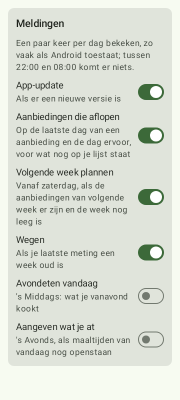
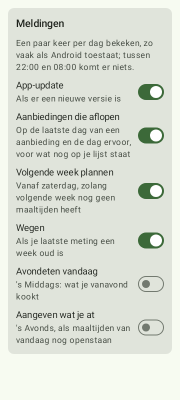
Notifications: a run inside every window, and "Plan next week" on Saturday whatever the offers (#251) (#254)
The periodic run's times are Android's and can miss the two hours of "Mark what you ate", so every run also schedules a one-off run just after the next window opens. "Plan next week" was tied to next week's offers, which only Jumbo lists early; the owner chose Saturday regardless of offers.

diff --git a/composeApp/src/commonTest/kotlin/dev/tobins/mealplanner/app/NotificationsTest.kt b/composeApp/src/commonTest/kotlin/dev/tobins/mealplanner/app/NotificationsTest.kt
@@ -11,6 +11,9 @@ import kotlin.test.assertEquals
 import kotlin.test.assertFalse
 import kotlin.test.assertTrue
 import kotlin.time.Clock
+import kotlin.time.Duration.Companion.days
+import kotlin.time.Duration.Companion.hours
+import kotlin.time.Duration.Companion.minutes
 import kotlin.time.ExperimentalTime
 import kotlin.time.Instant
 
@@ -150,7 +153,7 @@ class NotificationsTest {
         assertEquals("1 offer for your list ends tomorrow", notice(NotificationKind.OFFERS_ENDING, tomorrow).title)
         val both = all.copy(offersEnding = listOf(EndingOffer("Quark", "2026-11-21"), EndingOffer("Feta", "2026-11-22")))
         assertEquals("2 offers for your list end today or tomorrow", notice(NotificationKind.OFFERS_ENDING, both).title)
-        assertEquals("Next week's offers are in" to "Plan the week.", notice(NotificationKind.PLAN_NEXT_WEEK).let { it.title to it.text })
+        assertEquals("Next week has no plan yet" to "Plan the week.", notice(NotificationKind.PLAN_NEXT_WEEK).let { it.title to it.text })
         assertEquals("Time for a weigh-in" to "The last one was 9 days ago", notice(NotificationKind.WEIGH_IN).let { it.title to it.text })
         assertEquals("Tonight: Chicken tikka" to "2.25 servings to cook", notice(NotificationKind.DINNER_TODAY).let { it.title to it.text })
         assertEquals("2 meals of today are not marked yet", notice(NotificationKind.MEALS_TO_MARK).title)
@@ -160,6 +163,7 @@ class NotificationsTest {
         assertEquals("1 aanbieding voor je lijst eindigt morgen", notice(NotificationKind.OFFERS_ENDING, tomorrow, nl).title)
         assertEquals("Vanavond: Chicken tikka" to "2,25 porties om te koken", notice(NotificationKind.DINNER_TODAY, strings = nl).let { it.title to it.text })
         assertEquals("Meal planner 0.1.9 is beschikbaar", notice(NotificationKind.UPDATE, strings = nl).title)
+        assertEquals("Volgende week heeft nog geen plan" to "Plan de week.", notice(NotificationKind.PLAN_NEXT_WEEK, strings = nl).let { it.title to it.text })
     }
 
     @Test
@@ -172,5 +176,37 @@ class NotificationsTest {
         // The recipe from that meal, with its servings to cook and the way to mark it eaten.
         val meal = MealToCook(12, 1.5, 2.25, skipped = false, MealPlace("2026-11-16", 5, MealSlot.DINNER), planned = true)
         assertEquals(Opening(Route.Recipe(12), meal), notice(NotificationKind.DINNER_TODAY).opening)
+    }
+
+    @Test
+    fun everyWindowGetsARunWhateverThePhaseOfThePeriodicOne() {
+        assertEquals(listOf(8, 15, 20), NotificationWindows.openingHours)
+        // Starting at any minute of a day, the chain of runs (each asking for the next) has one just after every opening, on the days after too.
+        val start = Instant.parse("2026-11-21T00:00:00Z")
+        for (minute in 0 until 24 * 60) {
+            var now = start + minute.minutes
+            val runs = mutableListOf<Instant>()
+            while (now < start + 3.days) {
+                now = NotificationWindows.nextRun(now, TimeZone.UTC).second
+                runs += now
+            }
+            for (day in 1..2) {
+                for (hour in NotificationWindows.openingHours) {
+                    val open = Instant.parse("2026-11-2${1 + day}T${hour.toString().padStart(2, '0')}:00:00Z")
+                    assertTrue(runs.any { it >= open && it < open + 1.hours }, "a run just after $open when starting at minute $minute")
+                }
+            }
+        }
+    }
+
+    @Test
+    fun aRunJustAfterAWindowOpensIsInsideItsWindow() {
+        for (hour in NotificationWindows.openingHours) {
+            val run = NotificationWindows.nextRun(Instant.parse("2026-11-21T${hour.toString().padStart(2, '0')}:00:00Z") - 1.minutes, TimeZone.UTC)
+            assertEquals(hour, run.first)
+            val planner = at(run.second.toString().substring(11, 16))
+            NotificationKind.entries.filter { it.fromHour == hour }.forEach { storage.saveNotificationOn(it, true) }
+            assertTrue(NotificationKind.entries.filter { it.fromHour == hour }.all(planner::wanted), "the window of $hour is open at its run")
+        }
     }
 }

diff --git a/androidApp/src/main/kotlin/dev/tobins/mealplanner/android/Notifications.kt b/androidApp/src/main/kotlin/dev/tobins/mealplanner/android/Notifications.kt
@@ -9,7 +9,9 @@ import android.content.Intent
 import androidx.work.Constraints
 import androidx.work.CoroutineWorker
 import androidx.work.ExistingPeriodicWorkPolicy
+import androidx.work.ExistingWorkPolicy
 import androidx.work.NetworkType
+import androidx.work.OneTimeWorkRequestBuilder
 import androidx.work.PeriodicWorkRequestBuilder
 import androidx.work.WorkManager
 import androidx.work.WorkerParameters
@@ -17,6 +19,7 @@ import dev.tobins.mealplanner.app.AppUpdates
 import dev.tobins.mealplanner.app.DueNotification
 import dev.tobins.mealplanner.app.NotificationKind
 import dev.tobins.mealplanner.app.NotificationPlanner
+import dev.tobins.mealplanner.app.NotificationWindows
 import dev.tobins.mealplanner.app.ServerSettings
 import dev.tobins.mealplanner.app.Strings
 import dev.tobins.mealplanner.app.appLanguage
@@ -30,7 +33,9 @@ import kotlinx.coroutines.withContext
 import java.util.concurrent.TimeUnit
 
 /**
- * The one background check (issue 225), every four hours on any network, as often as Android allows: the
+ * The one background check (issue 225), every four hours on any network, as often as Android allows, and
+ * once just after each window opens ([NotificationWindows]), since the periodic run's times are Android's
+ * and may never fall inside a window: the
  * latest release, as the daily update check did before (not in a debug build, which a release cannot
  * replace), and, while logged in, what the server says is due. [NotificationPlanner] decides what to post;
  * this only asks and posts. Without the system's permission it asks nothing; a failure tells nothing, shows
@@ -39,6 +44,7 @@ import java.util.concurrent.TimeUnit
 class NotificationWorker(context: Context, params: WorkerParameters) : CoroutineWorker(context, params) {
     override suspend fun doWork(): Result {
         val app = applicationContext
+        scheduleNextWindowRun(app)
         if (!notificationsAllowed(app)) return Result.success()
         val storage = settingsStorage(app)
         val planner = NotificationPlanner(storage)
@@ -84,8 +90,30 @@ class NotificationWorker(context: Context, params: WorkerParameters) : Coroutine
         /** The daily update check's schedule, which this one replaces. */
         private const val UPDATE_CHECK_WORK_NAME = "update-check"
 
-        /** Schedules the check every four hours, which reaches the afternoon's and evening's windows; keeps an existing schedule. */
+        /** The unique work of the run for the window opening at [hour]: one name per window, so a run never replaces itself. */
+        private fun windowWorkName(hour: Int) = "$WORK_NAME-window-$hour"
+
+        /**
+         * Enqueues the one-off run just after the next window opens, as [NotificationWindows] says, replacing a
+         * waiting one of that window. Each run does this first, so the chain goes on; the periodic check and the
+         * app's start restart it should it ever break.
+         */
+        private fun scheduleNextWindowRun(context: Context) {
+            val (hour, wait) = NotificationWindows.untilNextRun()
+            val request = OneTimeWorkRequestBuilder<NotificationWorker>()
+                .setInitialDelay(wait.inWholeMilliseconds, TimeUnit.MILLISECONDS)
+                .setConstraints(Constraints.Builder().setRequiredNetworkType(NetworkType.CONNECTED).build())
+                .build()
+            WorkManager.getInstance(context).enqueueUniqueWork(windowWorkName(hour), ExistingWorkPolicy.REPLACE, request)
+        }
+
+        /**
+         * Schedules the check every four hours and the run after the next window opening; keeps an existing
+         * periodic schedule. The window runs are what make sure every window, the afternoon's and the evening's
+         * too, is reached whatever the phase of the periodic check.
+         */
         fun schedule(context: Context) {
+            scheduleNextWindowRun(context)
             val work = WorkManager.getInstance(context)
             work.cancelUniqueWork(UPDATE_CHECK_WORK_NAME)
             val request = PeriodicWorkRequestBuilder<NotificationWorker>(4, TimeUnit.HOURS)

diff --git a/server/src/test/kotlin/dev/tobins/mealplanner/server/NotificationsTest.kt b/server/src/test/kotlin/dev/tobins/mealplanner/server/NotificationsTest.kt
@@ -189,8 +189,8 @@ class NotificationsTest {
     // --- Plan next week
 
     @Test
-    fun nextWeekIsDueFromSaturdayWhileItHasNoMealsAndItsOffersAreIn() = testApplication {
-        start(chickenOffer, Offer(Store.JUMBO, "Jumbo Rijst 1 kg", "40% korting", validFrom = nextWeek, validUntil = "2026-11-29"))
+    fun nextWeekIsDueFromSaturdayWhileItHasNoMeals() = testApplication {
+        start(chickenOffer)
         val alice = clientFor("t").ready()
         val bob = clientFor("bob").ready()
         bob.get("/api/me")
@@ -204,38 +204,18 @@ class NotificationsTest {
         alice.plan("t", day = 0, weekStart = nextWeek)
         assertNull(facts("2026-11-21").planNextWeek)
         assertEquals(nextWeek, facts("2026-11-21", "bob").planNextWeek)
+    }
 
-        // Next week's offers are at a store Bob doesn't shop at.
+    @Test
+    fun nextWeekIsDueWithoutOffersAndForEveryStore() = testApplication {
+        // No offer of next week anywhere (AH and Lidl list theirs only once the week has started), and an account at AH alone.
+        start(Offer(Store.AH, "AH Broccoli", "1+1 gratis", validFrom = week, validUntil = "2026-11-22"))
+        val bob = clientFor("bob").ready()
         bob.put("/api/shops") { setBody(ShopsSetting(listOf(Store.AH))) }
-        assertNull(facts("2026-11-21", "bob").planNextWeek)
-    }
+        assertEquals(nextWeek, facts("2026-11-21", "bob").planNextWeek)
 
-    @Test
-    fun nextWeekIsNotDueBeforeItsOffersAreIn() = testApplication {
-        start(chickenOffer)
-        clientFor("t").ready()
-        assertNull(facts("2026-11-21").planNextWeek)
-    }
-
-    @Test
-    fun offersRunningOnIntoNextWeekAreNotNextWeeksOffers() = testApplication {
-        start(
-            // Jumbo's week of this Wednesday to next Tuesday, and an offer Jumbo dates over most of the year.
-            Offer(Store.JUMBO, "Jumbo Rijst 1 kg", "40% korting", validFrom = "2026-11-18", validUntil = "2026-11-24"),
-            Offer(Store.JUMBO, "Jumbo Oosterse maaltijden", "2 voor 5,50", validFrom = "2026-01-07", validUntil = "2026-12-08"),
-            // AH's week, ending on Sunday.
-            Offer(Store.AH, "AH Broccoli", "1+1 gratis", validFrom = week, validUntil = "2026-11-22"),
-        )
-        clientFor("t").ready()
-        assertNull(facts("2026-11-21").planNextWeek, "Saturday, with only this week's offers and a long-dated one")
-    }
-
-    @Test
-    fun anOfferStartingMidNextWeekBringsItsOffersIn() = testApplication {
-        // Jumbo lists its week from Wednesday 25 November before it starts.
-        start(chickenOffer, Offer(Store.JUMBO, "Jumbo Rijst 1 kg", "40% korting", validFrom = "2026-11-25", validUntil = "2026-12-01"))
-        clientFor("t").ready()
-        assertEquals(nextWeek, facts("2026-11-22").planNextWeek)
+        clientFor("t").ready().put("/api/shops") { setBody(ShopsSetting(listOf(Store.LIDL))) }
+        assertEquals(nextWeek, facts("2026-11-21").planNextWeek)
     }
 
     // --- Weigh-in

diff --git a/composeApp/src/commonMain/kotlin/dev/tobins/mealplanner/app/Notifications.kt b/composeApp/src/commonMain/kotlin/dev/tobins/mealplanner/app/Notifications.kt
@@ -4,11 +4,19 @@ import dev.tobins.mealplanner.api.MealSlot
 import dev.tobins.mealplanner.api.NotificationFacts
 import io.ktor.client.engine.HttpClientEngine
 import kotlinx.coroutines.flow.StateFlow
+import kotlinx.datetime.DateTimeUnit
+import kotlinx.datetime.LocalDateTime
+import kotlinx.datetime.LocalTime
 import kotlinx.datetime.TimeZone
+import kotlinx.datetime.plus
+import kotlinx.datetime.toInstant
 import kotlinx.datetime.toLocalDateTime
 import kotlin.coroutines.cancellation.CancellationException
 import kotlin.time.Clock
+import kotlin.time.Duration
+import kotlin.time.Duration.Companion.minutes
 import kotlin.time.ExperimentalTime
+import kotlin.time.Instant
 
 /*
  * The Android app's notifications (issue 225). The server says what is due (`GET /api/notifications`);
@@ -37,6 +45,38 @@ enum class NotificationKind(val key: String, val channel: String, val defaultOn:
 
         /** The kinds the server's facts are about: all but the update, which GitHub tells. */
         val fromServer = entries - UPDATE
+    }
+}
+
+/**
+ * When the background check must run so that every kind's window gets a run, whatever the phase of the periodic
+ * check (which Android runs about every four hours, at times of its own choosing and so possibly never inside
+ * the two hours of "Mark what you ate"). One extra run is due [MARGIN] after each hour a window opens; each
+ * run asks for the next one, so the chain goes on while the app is used now and then and the periodic check
+ * runs.
+ */
+@OptIn(ExperimentalTime::class)
+object NotificationWindows {
+    /** A run waits this long after the hour so that it is surely inside the window, and not at its very edge. */
+    val MARGIN: Duration = 5.minutes
+
+    /** The hours at which a window opens, in the order of the day. */
+    val openingHours: List<Int> = NotificationKind.entries.map { it.fromHour }.distinct().sorted()
+
+    /** The hour of the window the next run is for, and how long from now on the device's clock until it is due. */
+    fun untilNextRun(clock: Clock = Clock.System, zone: TimeZone = TimeZone.currentSystemDefault()): Pair<Int, Duration> {
+        val now = clock.now()
+        val (hour, due) = nextRun(now, zone)
+        return hour to due - now
+    }
+
+    /** The run after [now]: the hour of the window it is for, and the instant it is due, on the device's [zone]. */
+    fun nextRun(now: Instant, zone: TimeZone): Pair<Int, Instant> {
+        val today = now.toLocalDateTime(zone).date
+        return (0..1).flatMap { days ->
+            val day = today.plus(days, DateTimeUnit.DAY)
+            openingHours.map { hour -> hour to LocalDateTime(day, LocalTime(hour, 0)).toInstant(zone) + MARGIN }
+        }.first { it.second > now }
     }
 }
 

diff --git a/server/src/main/kotlin/dev/tobins/mealplanner/server/DueNotifications.kt b/server/src/main/kotlin/dev/tobins/mealplanner/server/DueNotifications.kt
@@ -26,8 +26,6 @@ class DueNotifications(
     private val profiles: ProfileRepository,
     /** The stores the account shops at: an offer elsewhere is no reason to hurry. */
     private val shops: () -> Set<Store>,
-    /** The stores with an offer that starts between two dates, both included. */
-    private val storesWithOffersStarting: (LocalDate, LocalDate) -> Set<Store>,
     private val today: () -> LocalDate = ::serverToday,
 ) {
     fun facts(): NotificationFacts {
@@ -78,17 +76,14 @@ class DueNotifications(
             .minOrNull()
 
     /**
-     * Next week's first day, on a Saturday or Sunday, while that week has no meals and next week's offers are in:
-     * an offer at one of the account's stores that *starts* next week (Monday to Sunday). An offer that only runs
-     * on into next week says nothing about next week's folder: this week's run on (Jumbo's weeks go from
-     * Wednesday to Tuesday), and Jumbo dates some offers over months. AH and Lidl start their weeks on Monday
-     * (Lidl's second batch on Thursday), Jumbo on Wednesday, and Jumbo lists next week's offers before they start.
+     * Next week's first day, on a Saturday or Sunday, while that week has no meals. Whatever the offers: the
+     * owner plans on Saturday, and only Jumbo lists next week's offers before the week starts (AH and Lidl are
+     * fetched once it has), so tying the reminder to offers would leave AH and Lidl shoppers without it.
      */
     private fun planNextWeek(day: LocalDate, weekStart: LocalDate): LocalDate? {
         if (day.dayOfWeek != DayOfWeek.SATURDAY && day.dayOfWeek != DayOfWeek.SUNDAY) return null
         val next = weekStart.plusWeeks(1)
-        if (plans.meals(next).isNotEmpty()) return null
-        return next.takeIf { storesWithOffersStarting(next, next.plusDays(6)).any { it in shops() } }
+        return next.takeIf { plans.meals(next).isEmpty() }
     }
 
     /** The newest weigh-in, when it is a week old or older and there is a profile its weight goes to. */

diff --git a/composeApp/src/commonMain/kotlin/dev/tobins/mealplanner/app/Messages.kt b/composeApp/src/commonMain/kotlin/dev/tobins/mealplanner/app/Messages.kt
@@ -808,8 +808,8 @@ enum class Msg(private val english: String, private val dutch: String) {
     ),
     NOTIFY_PLAN_NEXT_WEEK("Plan next week", "Volgende week plannen"),
     NOTIFY_PLAN_NEXT_WEEK_HINT(
-        "From Saturday, once next week's offers are in and the week has no meals",
-        "Vanaf zaterdag, als de aanbiedingen van volgende week er zijn en de week nog leeg is",
+        "From Saturday, while next week has no meals",
+        "Vanaf zaterdag, zolang volgende week nog geen maaltijden heeft",
     ),
     NOTIFY_WEIGH_IN("Weigh-in", "Wegen"),
     NOTIFY_WEIGH_IN_HINT("When the last weigh-in is a week old", "Als je laatste meting een week oud is"),
@@ -819,7 +819,7 @@ enum class Msg(private val english: String, private val dutch: String) {
     NOTIFY_MEALS_TO_MARK_HINT("In the evening, while meals of today are not marked", "'s Avonds, als maaltijden van vandaag nog openstaan"),
     UPDATE_NOTIFICATION_TITLE("Meal planner {0} is available", "Meal planner {0} is beschikbaar"),
     UPDATE_NOTIFICATION_TEXT("Tap to update.", "Tik om bij te werken."),
-    PLAN_NOTIFICATION_TITLE("Next week's offers are in", "De aanbiedingen van volgende week zijn er"),
+    PLAN_NOTIFICATION_TITLE("Next week has no plan yet", "Volgende week heeft nog geen plan"),
     PLAN_NOTIFICATION_TEXT("Plan the week.", "Plan de week."),
     WEIGH_IN_NOTIFICATION_TITLE("Time for a weigh-in", "Tijd om te wegen"),
     DINNER_NOTIFICATION_TITLE("Tonight: {0}", "Vanavond: {0}"),

diff --git a/server/src/main/kotlin/dev/tobins/mealplanner/server/OfferRepository.kt b/server/src/main/kotlin/dev/tobins/mealplanner/server/OfferRepository.kt
@@ -30,12 +30,6 @@ class OfferRepository(private val db: Database, private val sources: List<OfferS
     fun byIngredient(from: LocalDate, until: LocalDate, terms: Map<Long, List<String>>): Map<Long, List<Offer>> =
         OfferMatcher(terms).group(q.selectOffersOverlapping(until = until.toString(), from = from.toString()).executeAsList().map { it.toOffer() })
 
-    /** The stores with an offer that starts between [from] and [until], both included: those whose offers for those days are in. */
-    fun storesWithOffersStarting(from: LocalDate, until: LocalDate): Set<Store> =
-        q.selectOffersOverlapping(until = until.toString(), from = from.toString()).executeAsList()
-            .filter { it.validFrom >= from.toString() }
-            .mapTo(HashSet()) { it.toOffer().store }
-
     /**
      * Offers valid on [date] with the store statuses. With [terms] (see [byIngredient])
      * each offer also names the ingredient it matches.

diff --git a/shared/src/commonMain/kotlin/dev/tobins/mealplanner/api/Notifications.kt b/shared/src/commonMain/kotlin/dev/tobins/mealplanner/api/Notifications.kt
@@ -20,9 +20,8 @@ data class NotificationFacts(
      */
     val offersEnding: List<EndingOffer> = emptyList(),
     /**
-     * The first day (a Monday, ISO) of next week, on a Saturday or Sunday while that week has no meals and
-     * next week's offers are in: an offer at one of the account's stores that starts next week (one running on
-     * from this week, or dated over months, does not count); null otherwise.
+     * The first day (a Monday, ISO) of next week, on a Saturday or Sunday while that week has no meals,
+     * whatever the stores' offers; null otherwise.
      */
     val planNextWeek: String? = null,
     /** The newest weigh-in, when it is 7 or more days old and the account has a profile; null otherwise. */

diff --git a/server/src/main/kotlin/dev/tobins/mealplanner/server/UserScope.kt b/server/src/main/kotlin/dev/tobins/mealplanner/server/UserScope.kt
@@ -55,6 +55,6 @@ class UserScope(
         )
     }
     val tracking by lazy { TrackingRepository(db, accountId, plans, profiles) }
-    val notifications by lazy { DueNotifications(shopping, plans, tracking, profiles, shops::inUse, offers::storesWithOffersStarting, today) }
+    val notifications by lazy { DueNotifications(shopping, plans, tracking, profiles, shops::inUse, today) }
     val generation by lazy { generator?.let { GenerationService(it, recipes, ingredients, stock, profiles, plans, offers, shops::inUse) } }
 }

diff --git a/README.md b/README.md
@@ -360,7 +360,7 @@ the device; each kind is an Android notification channel of its own, so the syst
 |---|---|---|---|
 | App update | A newer release exists (release builds only), once per version | The app, which offers the update | On |
 | Offers ending | An offer at one of the account's stores ends today or tomorrow, for a row of this week's shopping list still to buy (not ticked, still needed by a meal, not covered by a known amount at home), or a buy-ahead or stock-up row not ticked or dismissed; once per day, one notification naming them all ("3 offers for your list end today") | Shopping | On |
-| Plan next week | On Saturday and Sunday, while next week has no meals and next week's offers are in: an offer at one of the account's stores that starts next week (this week's running on and Jumbo's offers dated over months do not count; AH and Lidl are only fetched once their week has started, so in practice Jumbo, which lists its next week early, brings it in); once per week | Plan, on next week | On |
+| Plan next week | On Saturday and Sunday, while next week has no meals, whatever the offers ("Next week has no plan yet"; it works for every store, since only Jumbo lists next week's offers early); once per week | Plan, on next week | On |
 | Weigh-in | The newest weigh-in is 7 or more days old and there is a profile; once per 7 days, until one is entered | Progress | Off |
 | Dinner today | Today has a planned dinner that is neither eaten nor skipped; once per day | The recipe, from that meal (its servings to cook) | Off |
 | Mark what you ate | A meal of today is still planned; once per day | Today | Off |
@@ -369,7 +369,10 @@ The server says what is due, the app decides whether to tell: `GET /api/notifica
 account and the server's today, the facts behind kinds 2 to 6 as data (`NotificationFacts`: names, dates, counts,
 the recipe), and the app words them in its language (`Messages.kt`). One WorkManager job (`NotificationWorker`)
 replaces the daily update check: every four hours on any network, as Android allows, it checks the release and,
-when logged in, asks the server. The schedule outlives the app being swiped away and a reboot (WorkManager keeps it
+when logged in, asks the server. Android decides when the periodic run happens, so it may never fall inside the two
+hours of "Mark what you ate"; therefore every run also schedules a one-off run five minutes after the next window
+opens (08:00, 15:00 or 20:00 by the device's clock), and the app's start does too, so each window gets a run
+whatever the phase of the periodic one (`NotificationWindows`). The schedule outlives the app being swiped away and a reboot (WorkManager keeps it
 in JobScheduler and sets it again at boot); a force stop (Settings → Apps → Force stop, or a phone maker's battery
 saver that force-stops on a swipe) cancels it until the app is next opened, which schedules it again. What decides (the kind, its switch, what was told already per kind and day, week
 or version, and the windows) is common code (`NotificationPlanner`): kinds 1 to 4 from 08:00, dinner from 15:00,
